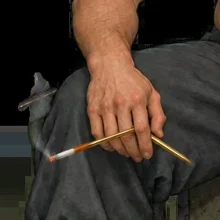
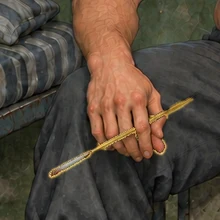
Еда ровно на всех столах, стена в 4 хатах, золотой мундштук, трубка
Claude-Session: https://claude.ai/code/session_01615kAoe1j72PA5Ftrf1QR9

diff --git a/app/index.html b/app/index.html
@@ -876,7 +876,7 @@ BOARDS.forEach(([n,p,z,o,l],i)=>add({id:'d_'+i, cat:'nardy', sub:'nardy', slot:'
   .forEach(([n,p,l],i)=>add({id:'g_'+i, cat:'shmot', sub:'ochki', slot:'glasses', name:n, price:p, k:i, img:i?`nadeto/g${i}.webp`:null, th:i?`th/g${i}.webp`:null, ...(l||{})}));
 [['Без браслета',0],['Золотая цепь',2500],['Кожаный плетёный',200],['Серебряная цепь',1200],['Деревянные бусины',300],['Золото с камнями',6000,{rank:'Положенец'}]]
   .forEach(([n,p,l],i)=>add({id:'br_'+i, cat:'ryzhyo', sub:'braslety', slot:'bracelet', name:n, price:p, k:i, img:i?`nadeto/br${i}.webp`:null, th:i?`th/br${i}.webp`:null, ...(l||{})}));
-[['Сигарета из пачки',0],['Сигара',2000],['Чёрный мундштук',800],['Золотой мундштук',3000]]
+[['Сигарета из пачки',0],['Сигара',2000],['Чёрный мундштук',800],['Золотой мундштук',3000],['Трубка',1500]]
   .forEach(([n,p,l],i)=>add({id:'sm_'+i, cat:'shmot', sub:'vruke', slot:'smoke', name:n, price:p, k:i, img:i?`nadeto/sm${i}.webp`:'sigarety/02.webp', th:i?`th/sm${i}.webp`:null, ...(l||{})}));
 [['Пустой стол',0],['Банка чифира',150],['Хлеб с салом',300],['Тушёнка',250],['Конфеты',200],['Мандарины',150],['Колбаса',400],['Сахар-рафинад',100],['Лапша',120]]
   .forEach(([n,p],i)=>add({id:'fd_'+i, cat:'stol', sub:'eda', slot:'food', name:n, price:p, k:i, img:i?`eda/${String(i).padStart(2,'0')}.webp`:null}));
@@ -921,12 +921,13 @@ const LAMPS = {1:[480,40],2:[240,45],3:[480,60],4:[520,415],5:[700,140],6:[800,7
 const STOL = {"1": [177, 818], "2": [193, 818], "3": [197, 803], "4": [178, 791], "5": [187, 821], "6": [187, 816], "7": [203, 791], "8": [181, 818], "9": [194, 809], "10": [191, 811], "11": [200, 816]};
 const STOL_DY = {1:0,2:-11,3:-26,4:-28,5:-12,6:-12,7:-32,8:-12,9:-12,10:-12,11:-12};
 const LAY = {"h1":[409,116],"h2":[424,122],"h3":[407,124],"h4":[429,110],"h5":[364,106],"h6":[404,99],"h7":[411,123],"h8":[404,105],"h9":[419,123],"n1":[398,296],"n2":[390,286],"n3":[392,262],"n4":[391,316],"n5":[398,273],"n6":[394,262],"n7":[391,262],"w1":[510,524],"r1":[162,616],"w2":[543,523],"r2":[162,616],"w3":[521,529],"r3":[162,616],"w4":[511,523],"r4":[162,616],"cig":[151,580],"m0":[548,756],"a1":[253,852],"b1":[465,630],"d0":[246,755],"m1":[549,759],"c1":[478,849],"a2":[248,851],"b2":[465,630],"d1":[225,754],"m2":[562,733],"c2":[467,848],"a3":[265,843],"b3":[465,630],"d2":[239,755],"m3":[549,758],"c3":[479,863],"a4":[238,861],"b4":[465,630],"d3":[241,770],"m4":[557,734],"c4":[450,855],"b5":[465,630],"d4":[255,767],"c5":[453,854],"b6":[465,630],"d5":[237,766],"c0":[443,861],"b7":[465,630],"d6":[235,758],"d7":[241,741]};
-Object.assign(LAY,{"g1":[430,220],"g2":[428,204],"g3":[408,173],"g4":[415,173],"g5":[410,179],"br1":[142,540],"br2":[143,542],"br3":[144,543],"br4":[142,542],"br5":[144,532],"sm1":[203,498],"sm2":[100,603],"sm3":[63,572],"d8":[229,779],"d9":[239,777],"d10":[244,766],"d11":[205,815]});
+Object.assign(LAY,{"g1":[430,220],"g2":[428,204],"g3":[408,173],"g4":[415,173],"g5":[410,179],"br1":[142,540],"br2":[143,542],"br3":[144,543],"br4":[142,542],"br5":[144,532],"sm1":[203,498],"sm2":[100,603],"sm3":[100,603],"sm4":[222,499],"d8":[229,779],"d9":[239,777],"d10":[244,766],"d11":[205,815]});
 // где на стене висит вещь (в каждой хате своё свободное место), где сидит питомец и где еда на столе
-const WALLPOS = {1:[255,175,150],2:[262,215,140],3:[262,175,115],4:[255,200,130],5:[125,265,120],6:[255,210,150],7:[250,330,140],8:[690,250,130],9:[250,330,130],10:[125,300,120],11:[130,300,130]};
+const WALLPOS = {1:[255,175,150],2:[262,215,140],3:[262,175,115],4:[255,200,130],5:[715,118,115],6:[255,210,150],7:[250,330,140],8:[690,250,130],9:[225,105,120],10:[62,345,95],11:[680,115,120]};
 const PETW = [0,150,190,120,135,115,95,125,120];
 const PETPOS = {cx:795, bot:1166};
-const FOODPOS = {cx:372, bot:992, w:88};
+const FOODPOS = {cx:620, bot:934};
+const FOODW = [0,56,88,62,84,76,90,60,78]; // ширина каждой еды, чтобы по размеру совпадала с кружкой и пачкой
 async function drawWall(x, eq, L){ const it=eq.wall&&item(eq.wall); if(!it||!it.k) return; const im=await img(it.img); const p=WALLPOS[L]||WALLPOS[1]; if(!im) return;
   let w=p[2], h=w*im.height/im.width; if(h>p[2]*1.25){ h=p[2]*1.25; w=h*im.width/im.height; }
   x.save(); x.shadowColor='#0008'; x.shadowBlur=10; x.shadowOffsetX=4; x.shadowOffsetY=6; x.drawImage(im,p[0]-w/2,p[1]-h/2,w,h); x.restore(); }
@@ -988,7 +989,7 @@ async function composeHero(eq, opt){
   const T = async (id) => { const it=item(id); if(!it||!it.img) return; const key=id.replace('_',''), p=LAY[key]; if(!p) return; const im=await img(`nadeto/${key}.webp`); if(!im) return;
     if (dust(id)) x.filter='grayscale(.7) brightness(.8) contrast(.9)'; x.drawImage(im,p[0],p[1]+tdy); x.filter='none'; };
   await T(eq.board); await T(eq.mug); await T(eq.ash); await T(eq.pack);
-  { const fd=eq.food&&item(eq.food); if(fd&&fd.k){ const im=await img(fd.img); if(im){ const w=FOODPOS.w, h=w*im.height/im.width, b=FOODPOS.bot+tdy; contactShadow(x,FOODPOS.cx,b,w*0.9); x.drawImage(im,FOODPOS.cx-w/2,b-h,w,h); } } }
+  { const fd=eq.food&&item(eq.food); if(fd&&fd.k){ const im=await img(fd.img); if(im){ const w=FOODW[fd.k]||75, h=w*im.height/im.width, b=FOODPOS.bot+tdy; contactShadow(x,FOODPOS.cx,b,w*0.9); x.drawImage(im,FOODPOS.cx-w/2,b-h,w,h); } } }
   if (opt.season){ for (const [px,py] of [[668,948],[700,940],[684,925]]){ const g=x.createRadialGradient(px-4,py-4,2,px,py,15); g.addColorStop(0,'#ffc15a'); g.addColorStop(1,'#d9600c'); x.fillStyle=g; x.beginPath(); x.arc(px,py,15,0,7); x.fill(); } x.fillStyle='#3d6b2a'; x.beginPath(); x.ellipse(686,909,7,3,-.5,0,7); x.fill(); }
 
   // всё, что надето, нарисовано прямо на герое и сидит ровно
